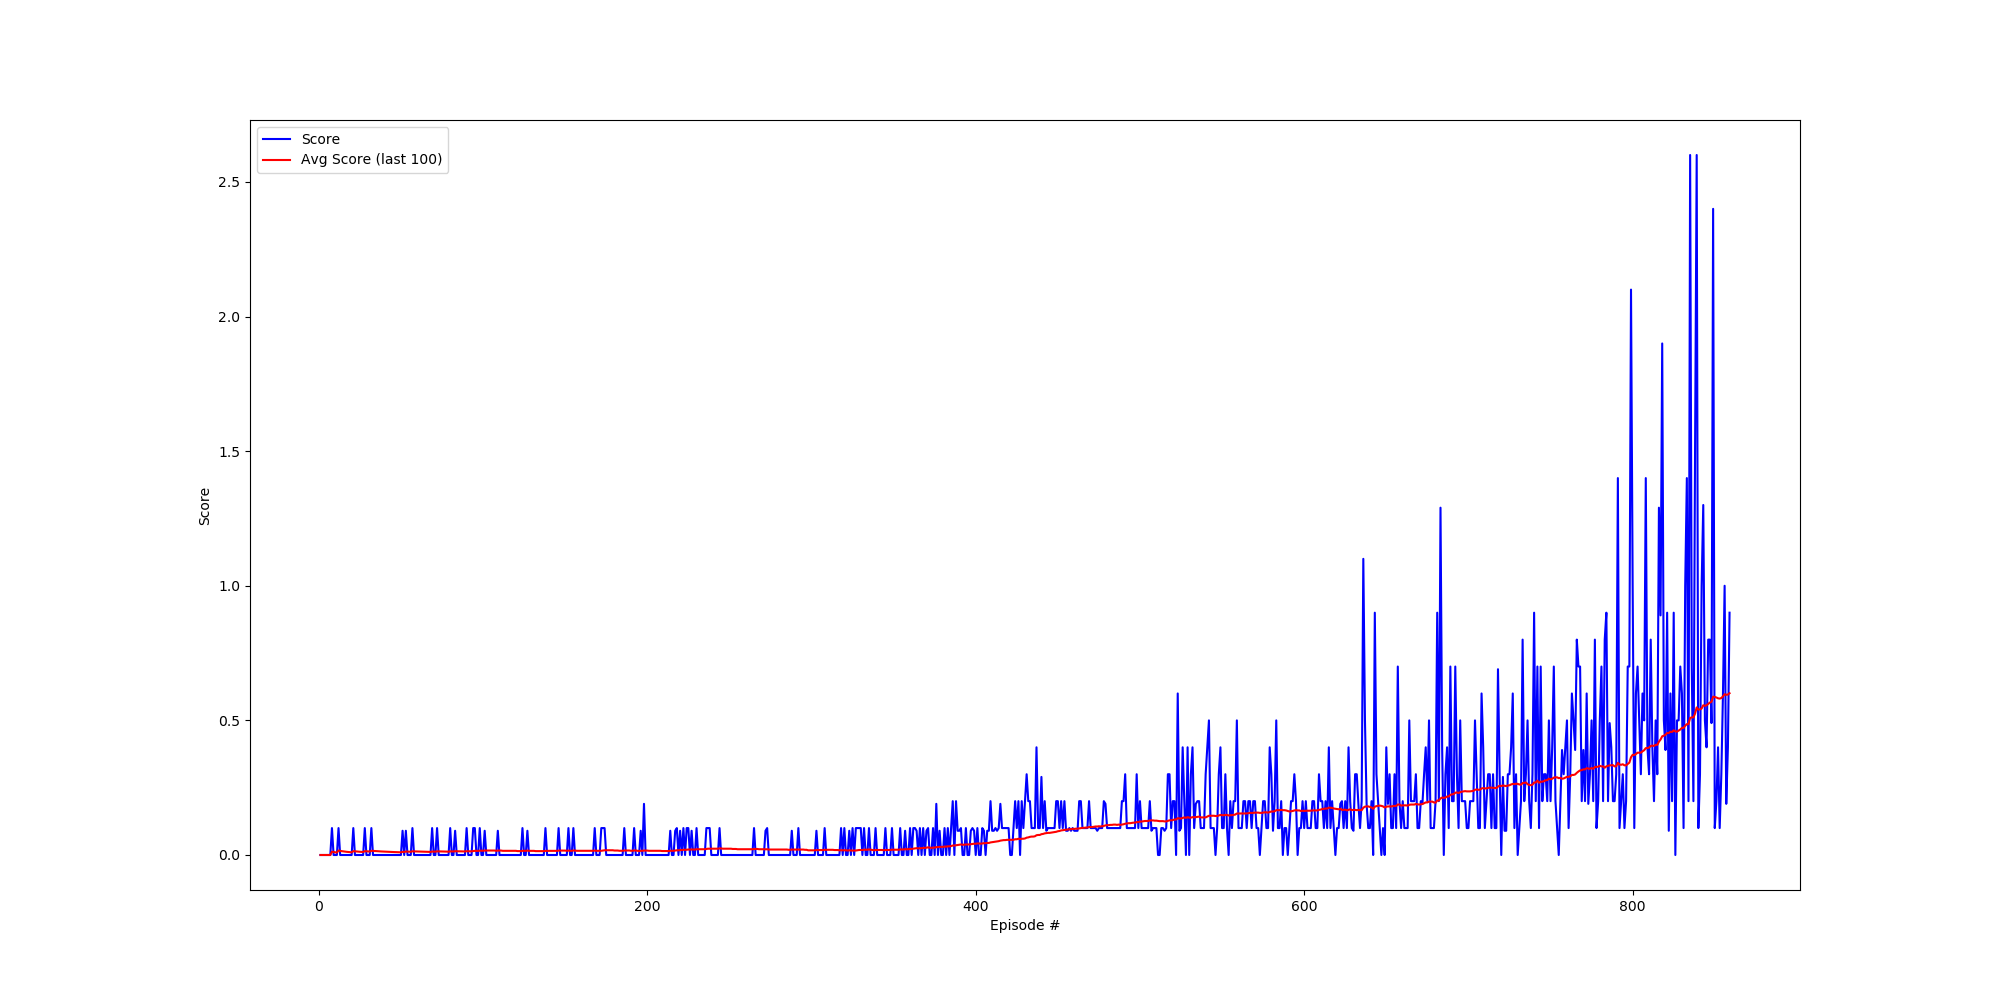
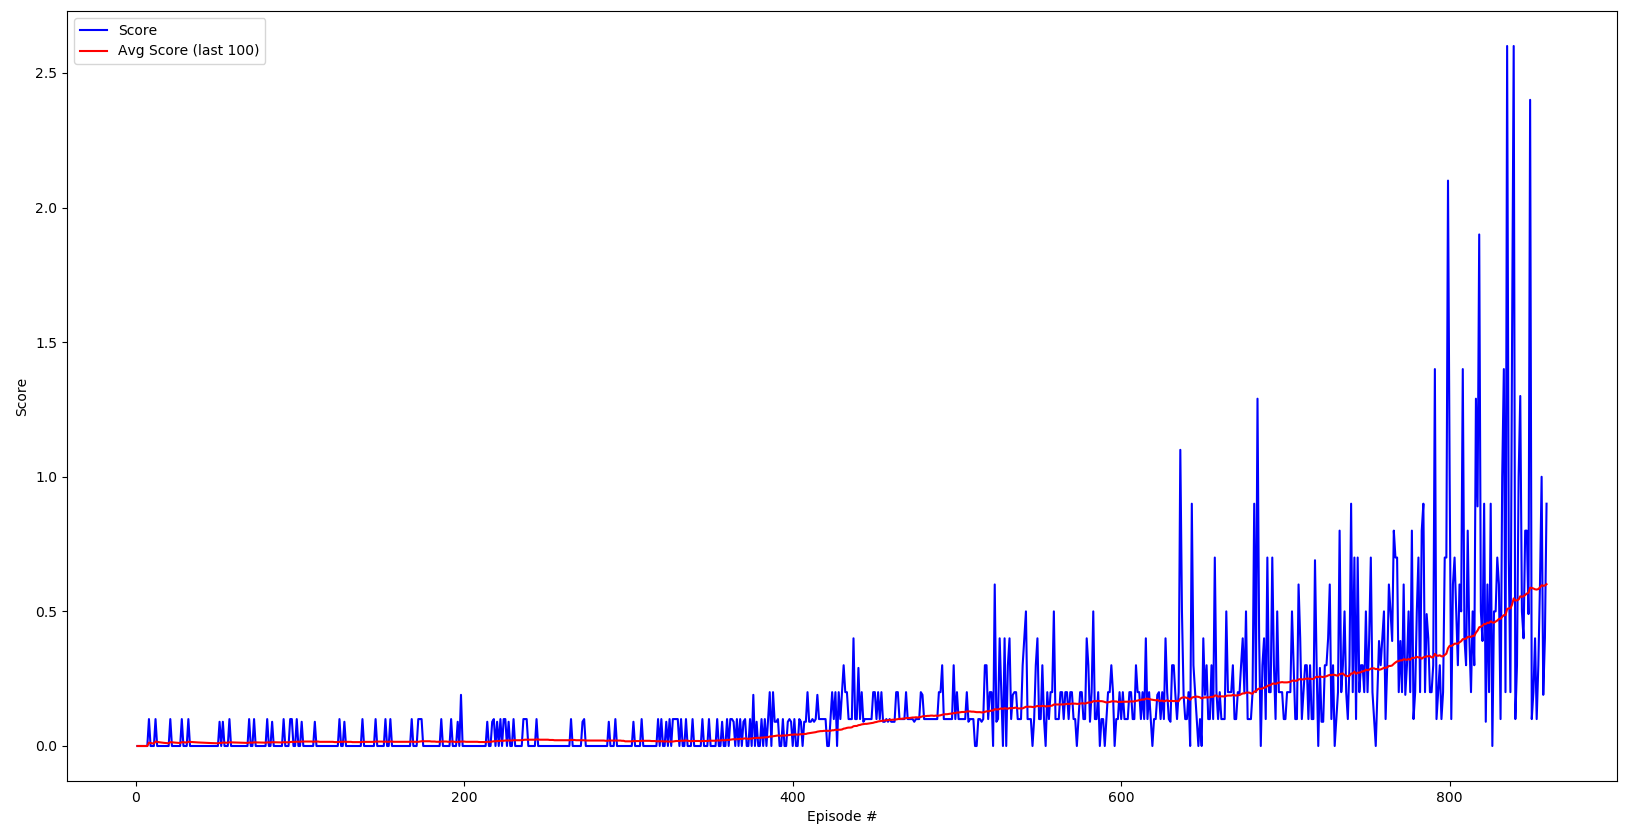
Added content to Report.md and resized score_plot_1.png

diff --git a/Report.md b/Report.md
@@ -1,68 +1,55 @@
 # Project Report
 
 ## Learning Algorithm
-The implementation of this project is based on the deep deterministic policy gradient (DDPG) algorithm. It's an 
-actor-critic, model-free algorithm based on the deterministic policy gradient algorithm but can operate over continuous
-action spaces. 
+The implementation of this project is based on the deep deterministic policy gradient (DDPG) algorithm. It's an actor-critic, model-free algorithm based on the deterministic policy gradient algorithm but can operate over continuous action spaces. It's used for each agent but both agent share a replay buffer which is updated by all agents' experiences during training.
 
 ### Model Architecture and Training
-The actor- and critic networks are both feedforward neural networks consisting of two hidden layers, one batch
-normalization layer between the first and the second hidden layer, and an output layer. Both hidden layers consist of
-128 neurons. The actor network's output layer is made up of four neurons (size of the action space) and the critic's
-output (the Q-value) is provided by one neuron. Inside the networks a ReLU activation function is used. As the action 
-values are between -1 and 1, tanh is used as activation function on the output of the actor network. The
-critic network feeds the actions not in the first, as it does with the states, but only in the second hidden layer.
+The actor- and critic networks are both feedforward neural networks consisting of two hidden layers and different numbers of batch normalization layers in-between. The actor network applies batch normalization after each linear layer and the critic network employs only batch normalization after the first linear layer.
 
-Both, the actor and the critic network consist of a local (regular) and target network. The target network is softly
-updated with the weights of the local network after every time step. 
+Both hidden layers consist of 128 neurons. The actor network's output layer is made up of two neurons (size of the action space) and the critic's output (the Q-value) is provided by one neuron. The hidden layers use the ReLU activation function to produce their outputs. As the action values are between -1 and 1, tanh is used as activation function on the output of the actor network. The critic network feeds the actions (input) not in the first, as it does with the states, but only in the second hidden layer.
 
-Training is started after the replay buffer contains enough samples to deliver at least a full batch of samples and only
-after 20 time steps were elapsed after the last training cycle to collect further samples. Inside a training cycle 
-learning takes place 10 times before collecting further experiences from the environment. Both hyperparameters
-(**update_every** and **network update**) can be configured in config.yml.
+Both, the actor and the critic networks consist of a local (regular) and target network. Parameter updates are done by an Adam optimizer. The target network is softly updated with the weights of the local network after every time step. 
 
-Decreasing Gaussian noise is added to the actions while training the model to allow exploratory behaviour.
+Training is started after the replay buffer contains enough samples to deliver at least a full batch of samples and only after 7 time steps were elapsed after the last training cycle to collect further samples. Inside a training cycle learning takes place 10 times before collecting further experiences from the environment. Both hyperparameters (**update_every** and **network update**) can be configured in config.yml.
+
+Decreasing Gaussian noise is added to the actions while training the model to allow exploratory behaviour. As training is very unstable exploration is reduced from epoch to epoch by an additional noise factor. This factor starts with value 1.0 and is decreased by a noise reduction factor of 0.9995 after each epoch until a minimum value of 0.1 is reached, i.e. exploration is still possible in later epochs but only to a limited extend. This was one of the key success factors to get a less volatile training and to exeed the performance threshold of 0.5. Additionally, training became much faster.
 
 ### Hyperparameters
-For learning the agent the following hyperparameters where used:
+For learning the agent the following hyperparameters were used:
 
-* n_episodes: 1000
+* n_episodes: 3000
 * max_timesteps: 1000
 * buffer_size: 100000
-* batch_size: 128
-* update_every: 20
+* batch_size: 1024
+* update_every: 7
 * network_update: 10
-* gamma: 0.95
+* gamma: 0.99
 * tau: 1.0E-3
-* lr_actor: 1.0E-3
+* lr_actor: 1.0E-4
 * lr_critic: 1.0E-3
 * weight_decay: 0.0
 * ou_mu: 0.0
 * ou_theta: 0.15
-* ou_sigma: 0.08
+* ou_sigma: 0.19
+* noise_start: 1.0
+* noise_reduce: 0.9995
+* noise_min: 0.1
 * scores_window: 100
 
 Details about the meaning of each hyperparameter can be found in the file 
 config.yml.
 
 ## Plot of Rewards
-The following figures show the reward plots, the training outputs and the 
-number of episodes to solve the environment of the final models for the
-one-agent and twenty-agent environment, respectively:
+The following figures show the reward plot, the training output and the 
+number of episodes to solve the environment of the final models:
 
 <p align="center">
-    <img src="./score_plots/score_plot_1.png" width="410" style="vertical-align:middle"/>
-    <img src="./score_plots/training_output_1.png" width="410" style="vertical-align:middle"/>
+    <img src="./score_plots/score_plot_1.png" width="700" style="vertical-align:middle"/>
+    <img src="./score_plots/training_output_1.png" width="400" style="vertical-align:middle"/>
   <br>
-  <em> Reward plot for one-agent training and the corresponding training output. Environment was solved after 332 episodes.</em>
-</p>
-
-<p align="center">
-  <img src="./score_plots/score_plot_20.png" width="410" style="vertical-align:middle"/>
-  <img src="./score_plots/training_output_20.png" width="410" style="vertical-align:middle"/>
-  <br>
-  <em> Reward plot for twenty-agent training and the corresponding training output. Environment was solved after 81 episodes.</em>
+  <em> Reward plot for the training of two agents and the corresponding training output. Environment was solved after 859 episodes with an average score of 0.60100.</em>
 </p>
 
 ## Ideas for Future Work
-Further hyperparameter tuning and the implementation of other actor-critic algorithms like A3C or D4PG can be investigated to improve the agent's performance.
+Further hyperparameter tuning and the implementation of a prioritized experience replay buffer (PER) could help to further improve training and reduce volatility.
+Additionally, implementing MADDPG or TD3 as alternative algorithms could be interesting to see whether they can outperform the algorithm implemented in this project.
